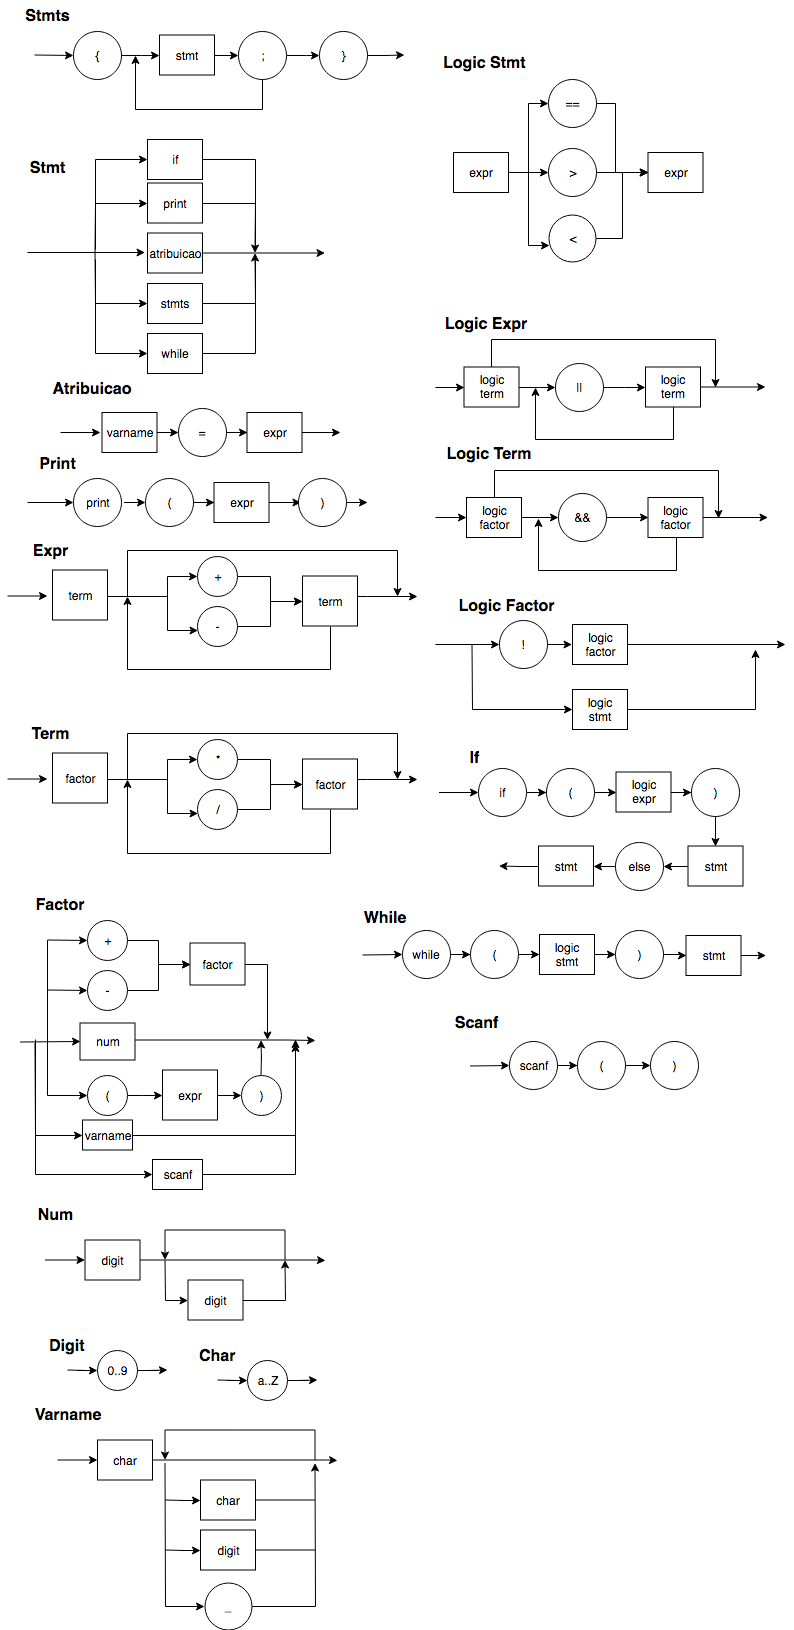
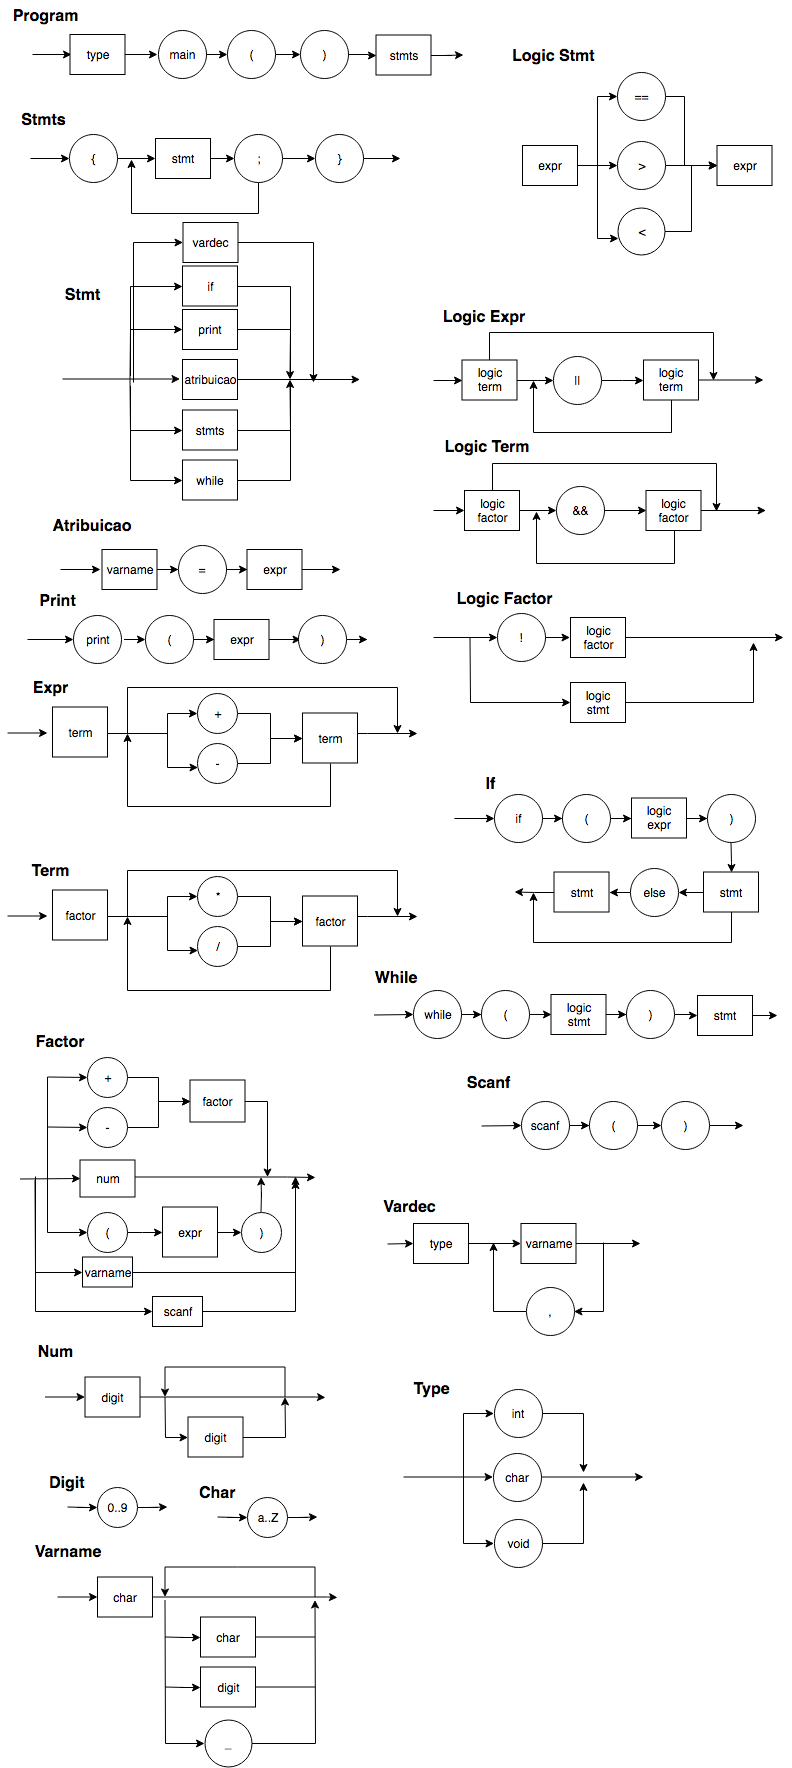
Quick commit - Mon Oct 15 16:19:58 -03 2018

diff --git a/README.md b/README.md
@@ -16,6 +16,8 @@ Para executar o programa, basta rodar o arquivo [/src/main/py](/src/main.py). O 
 ### EBNF
 
 ```
+program = type, 'main', '(', ')', stmts;
+type = ('int' | 'char' | 'void');
 logic_stmt = expr, ('==' | '>' | '<'), expr;
 logic_expr = logic_term, {'||', logic_term};
 logic_term = logic_factor, {'&&', logic_factor};
@@ -23,7 +25,8 @@ logic_factor = ('!', logic_factor) | logic_stmt;
 if = 'if', '(', logic_expr, ')', stmt, ['else', stmt];
 while = 'while', '(', logic_expr, ')', stmt;
 stmts = '{', stmt, ';', {stmt, ';'}, '}';
-stmt = print | atribuicao | stmts | if | while;
+stmt = print | atribuicao | stmts | if | while | vardec;
+vardec = type, varname, {',', varname};
 atribuicao = varname, '=', expr;
 print = 'printf', '(', expr, ')';
 expr = term, {('+' | '-'), term};
